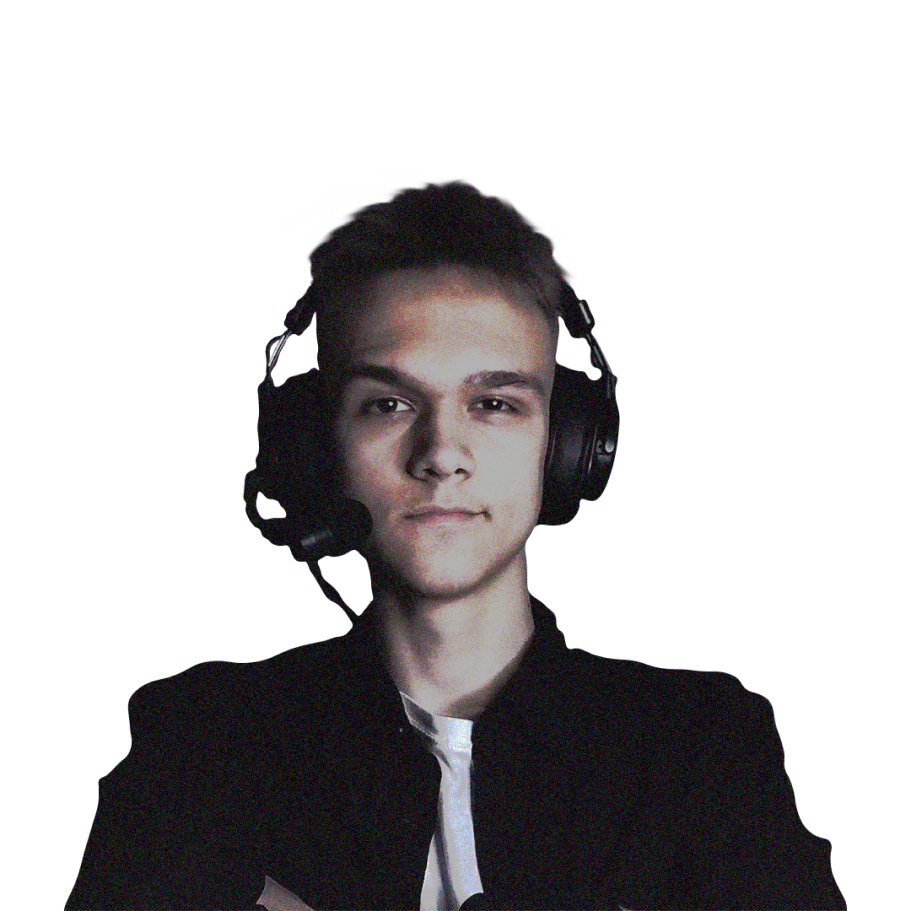
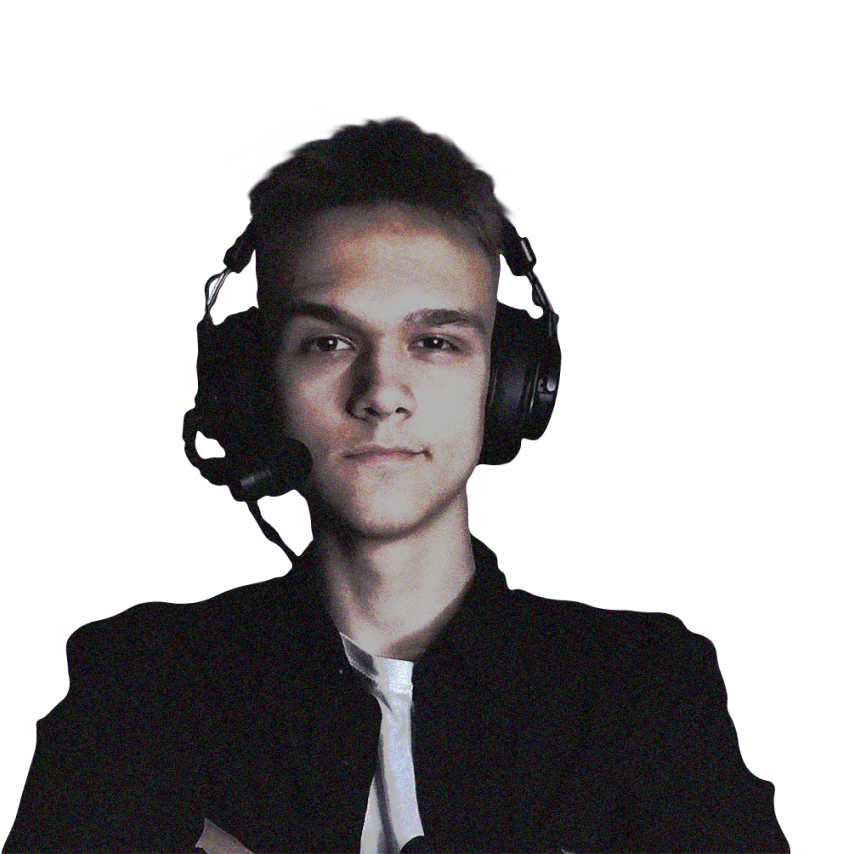
change position element for FullHD scale

Changed region(s): [[0.0, 0.1218, 0.9427, 1.0]]

diff --git a/index.html b/index.html
@@ -15,74 +15,82 @@
 <body>
 
     <header class="header container">
-        <a href="" class="home-btn">
-            <svg width="138" height="47" viewBox="0 0 138 47" fill="none" xmlns="http://www.w3.org/2000/svg">
-                <path d="M6.69092 28.6205L8.26357 32.5521L17.385 39H25.2483L33.2688 28.6205L35.3132 16.6683V7.38963"
-                    stroke="black" stroke-width="0.68141" />
-                <path d="M16.9131 30.3504L18.643 31.4513H26.8208" stroke="black" stroke-width="0.68141" />
-                <path d="M12.0381 15.882L13.1962 13.8089L21.0022 13.0512" stroke="black" stroke-width="0.68141" />
-                <path d="M29.0229 13.6802L33.5837 15.5674" stroke="black" stroke-width="0.68141" />
-                <path d="M25.7202 19.1845L26.5065 26.576" stroke="black" stroke-width="0.68141" />
-                <path d="M14.5162 18.2266L19.4674 17.3117" stroke="black" stroke-width="0.68141" />
-                <path d="M29.4946 18.2409L32.1681 18.87" stroke="black" stroke-width="0.68141" />
-                <path d="M16.3087 18.0131L16.6915 19.3011L18.2713 19.2539L18.2351 17.5173" stroke="black"
-                    stroke-width="0.68141" />
-                <path
-                    d="M47.405 28.8457C46.7547 28.8457 46.2048 28.6821 45.7553 28.3548C45.3058 28.0231 44.9653 27.5758 44.734 27.0128C44.5027 26.4454 44.3871 25.8104 44.3871 25.1078C44.3871 24.392 44.5027 23.7549 44.734 23.1962C44.9697 22.6332 45.3145 22.1903 45.7684 21.8673C46.2222 21.5444 46.7809 21.3829 47.4442 21.3829C48.0901 21.3829 48.6444 21.5465 49.107 21.8739C49.5696 22.2012 49.9231 22.6463 50.1675 23.2093C50.4163 23.7723 50.5407 24.4051 50.5407 25.1078C50.5407 25.8148 50.4163 26.4498 50.1675 27.0128C49.9188 27.5758 49.5609 28.0231 49.0939 28.3548C48.6269 28.6821 48.064 28.8457 47.405 28.8457ZM44.2234 28.6494V19.2226H45.1923V23.3272H45.0875V28.6494H44.2234ZM47.3068 27.9489C47.7999 27.9489 48.2102 27.8245 48.5375 27.5758C48.8648 27.327 49.1092 26.9888 49.2707 26.5611C49.4365 26.129 49.5194 25.6446 49.5194 25.1078C49.5194 24.5753 49.4387 24.0953 49.2772 23.6676C49.1157 23.2399 48.8692 22.9016 48.5375 22.6529C48.2102 22.4041 47.7934 22.2797 47.2871 22.2797C46.794 22.2797 46.3837 22.3998 46.0564 22.6398C45.7335 22.8798 45.4912 23.2137 45.3298 23.6414C45.1683 24.0647 45.0875 24.5535 45.0875 25.1078C45.0875 25.6533 45.1683 26.1421 45.3298 26.5742C45.4912 27.0019 45.7356 27.3379 46.063 27.5823C46.3903 27.8267 46.8049 27.9489 47.3068 27.9489ZM54.9306 28.8457C54.228 28.8457 53.6279 28.6865 53.1304 28.3679C52.6328 28.0493 52.251 27.6085 51.9848 27.0455C51.7185 26.4825 51.5854 25.8366 51.5854 25.1078C51.5854 24.3659 51.7207 23.7156 51.9913 23.157C52.2619 22.5983 52.6459 22.1641 53.1435 21.8542C53.6453 21.54 54.2411 21.3829 54.9306 21.3829C55.6376 21.3829 56.2399 21.5422 56.7374 21.8608C57.2393 22.175 57.6212 22.6136 57.883 23.1766C58.1492 23.7352 58.2824 24.3789 58.2824 25.1078C58.2824 25.8497 58.1492 26.5021 57.883 27.0651C57.6168 27.6238 57.2328 28.0602 56.7309 28.3744C56.229 28.6886 55.6289 28.8457 54.9306 28.8457ZM54.9306 27.9227C55.7162 27.9227 56.301 27.663 56.685 27.1437C57.0691 26.62 57.2611 25.9413 57.2611 25.1078C57.2611 24.2524 57.0669 23.5716 56.6785 23.0653C56.2944 22.5591 55.7118 22.3059 54.9306 22.3059C54.4025 22.3059 53.9661 22.4259 53.6213 22.666C53.2809 22.9016 53.0256 23.2311 52.8554 23.6545C52.6896 24.0734 52.6067 24.5579 52.6067 25.1078C52.6067 25.9588 52.803 26.6418 53.1958 27.1568C53.5886 27.6674 54.1669 27.9227 54.9306 27.9227ZM59.7264 28.6494V21.5793H60.5906V23.2813L60.4204 23.0588C60.4989 22.8493 60.6015 22.6572 60.728 22.4827C60.8546 22.3037 60.9921 22.1575 61.1405 22.0441C61.3238 21.8826 61.5376 21.7604 61.782 21.6775C62.0264 21.5902 62.273 21.54 62.5217 21.5269C62.7705 21.5095 62.9974 21.5269 63.2026 21.5793V22.4827C62.9451 22.4172 62.6636 22.4019 62.3581 22.4369C62.0526 22.4718 61.7711 22.594 61.5136 22.8035C61.2779 22.9867 61.1012 23.2071 60.9833 23.4646C60.8655 23.7178 60.787 23.9883 60.7477 24.2764C60.7084 24.5601 60.6888 24.8416 60.6888 25.1209V28.6494H59.7264ZM67.0595 28.8457C66.4005 28.8457 65.8375 28.6821 65.3705 28.3548C64.9036 28.0231 64.5457 27.5758 64.2969 27.0128C64.0482 26.4498 63.9238 25.8148 63.9238 25.1078C63.9238 24.4051 64.046 23.7723 64.2904 23.2093C64.5392 22.6463 64.8948 22.2012 65.3574 21.8739C65.8201 21.5465 66.3743 21.3829 67.0202 21.3829C67.6836 21.3829 68.2422 21.5444 68.6961 21.8673C69.15 22.1903 69.4926 22.6332 69.7239 23.1962C69.9595 23.7549 70.0774 24.392 70.0774 25.1078C70.0774 25.8104 69.9617 26.4454 69.7304 27.0128C69.4991 27.5758 69.1587 28.0231 68.7092 28.3548C68.2597 28.6821 67.7098 28.8457 67.0595 28.8457ZM67.1577 27.9489C67.6596 27.9489 68.0742 27.8267 68.4015 27.5823C68.7288 27.3379 68.9732 27.0019 69.1347 26.5742C69.2962 26.1421 69.3769 25.6533 69.3769 25.1078C69.3769 24.5535 69.2962 24.0647 69.1347 23.6414C68.9732 23.2137 68.7288 22.8798 68.4015 22.6398C68.0786 22.3998 67.6705 22.2797 67.1773 22.2797C66.6711 22.2797 66.2521 22.4041 65.9204 22.6529C65.5888 22.9016 65.3422 23.2399 65.1807 23.6676C65.0236 24.0953 64.945 24.5753 64.945 25.1078C64.945 25.6446 65.0258 26.129 65.1872 26.5611C65.3531 26.9888 65.5997 27.327 65.927 27.5758C66.2543 27.8245 66.6645 27.9489 67.1577 27.9489ZM69.3769 28.6494V23.3272H69.2722V19.2226H70.241V28.6494H69.3769ZM74.1004 28.8457C73.568 28.8457 73.1207 28.7497 72.7584 28.5577C72.4006 28.3657 72.1322 28.1104 71.9532 27.7918C71.7743 27.4732 71.6848 27.1262 71.6848 26.7509C71.6848 26.3669 71.7612 26.0395 71.9139 25.769C72.0711 25.494 72.2827 25.2692 72.5489 25.0947C72.8195 24.9201 73.1316 24.787 73.4851 24.6954C73.8429 24.6081 74.2379 24.5317 74.67 24.4662C75.1064 24.3964 75.5319 24.3375 75.9465 24.2895C76.3655 24.2371 76.7321 24.1869 77.0463 24.1389L76.7059 24.3484C76.719 23.6501 76.5837 23.133 76.3 22.7969C76.0163 22.4609 75.5232 22.2928 74.8205 22.2928C74.3361 22.2928 73.9259 22.4019 73.5898 22.6202C73.2581 22.8384 73.0246 23.1831 72.8893 23.6545L71.9532 23.3795C72.1147 22.7467 72.4398 22.2557 72.9286 21.9066C73.4174 21.5575 74.0524 21.3829 74.8336 21.3829C75.4795 21.3829 76.0272 21.5051 76.4768 21.7495C76.9306 21.9895 77.2514 22.3387 77.4391 22.7969C77.5264 23.002 77.5831 23.2311 77.6093 23.4843C77.6355 23.7374 77.6486 23.9949 77.6486 24.2567V28.6494H76.791V26.8753L77.0397 26.98C76.7997 27.5867 76.4266 28.0493 75.9203 28.3679C75.4141 28.6865 74.8074 28.8457 74.1004 28.8457ZM74.2117 28.0144C74.6612 28.0144 75.054 27.9336 75.3901 27.7721C75.7261 27.6107 75.9967 27.3903 76.2018 27.111C76.4069 26.8273 76.54 26.5087 76.6011 26.1552C76.6535 25.9283 76.6819 25.6795 76.6862 25.4089C76.6906 25.134 76.6928 24.9288 76.6928 24.7935L77.0594 24.9834C76.7321 25.027 76.3764 25.0707 75.9923 25.1143C75.6126 25.158 75.2373 25.2081 74.8664 25.2649C74.4998 25.3216 74.1681 25.3893 73.8713 25.4678C73.6705 25.5246 73.4763 25.6053 73.2887 25.71C73.101 25.8104 72.9461 25.9457 72.8239 26.1159C72.7061 26.2861 72.6471 26.4978 72.6471 26.7509C72.6471 26.956 72.6973 27.1546 72.7977 27.3466C72.9024 27.5387 73.0683 27.698 73.2952 27.8245C73.5265 27.9511 73.832 28.0144 74.2117 28.0144ZM84.4589 28.6494V25.0423C84.4589 24.6495 84.4218 24.2895 84.3476 23.9622C84.2734 23.6305 84.1534 23.3424 83.9876 23.098C83.8261 22.8493 83.6144 22.6572 83.3526 22.522C83.0951 22.3867 82.7809 22.319 82.4099 22.319C82.0695 22.319 81.7684 22.3779 81.5065 22.4958C81.249 22.6136 81.0308 22.7838 80.8519 23.0064C80.6773 23.2246 80.5442 23.4908 80.4526 23.805C80.3609 24.1193 80.3151 24.4771 80.3151 24.8786L79.6343 24.7281C79.6343 24.0036 79.7608 23.3948 80.0139 22.9016C80.2671 22.4085 80.6162 22.0353 81.0614 21.7822C81.5065 21.5291 82.0171 21.4025 82.5932 21.4025C83.0165 21.4025 83.3853 21.468 83.6996 21.5989C84.0181 21.7298 84.2865 21.9066 84.5048 22.1292C84.7273 22.3518 84.9063 22.6071 85.0416 22.8951C85.1768 23.1788 85.275 23.4821 85.3361 23.805C85.3972 24.1236 85.4278 24.4422 85.4278 24.7608V28.6494H84.4589ZM79.3462 28.6494V21.5793H80.2169V23.3206H80.3151V28.6494H79.3462ZM87.3099 28.6494V27.5299H88.4293V28.6494H87.3099ZM93.1938 28.8457C92.5348 28.8457 91.9718 28.6821 91.5049 28.3548C91.0379 28.0231 90.68 27.5758 90.4313 27.0128C90.1825 26.4498 90.0581 25.8148 90.0581 25.1078C90.0581 24.4051 90.1803 23.7723 90.4247 23.2093C90.6735 22.6463 91.0292 22.2012 91.4918 21.8739C91.9544 21.5465 92.5086 21.3829 93.1545 21.3829C93.8179 21.3829 94.3765 21.5444 94.8304 21.8673C95.2843 22.1903 95.6269 22.6332 95.8582 23.1962C96.0939 23.7549 96.2117 24.392 96.2117 25.1078C96.2117 25.8104 96.0961 26.4454 95.8647 27.0128C95.6334 27.5758 95.293 28.0231 94.8435 28.3548C94.394 28.6821 93.8441 28.8457 93.1938 28.8457ZM93.292 27.9489C93.7939 27.9489 94.2085 27.8267 94.5358 27.5823C94.8632 27.3379 95.1075 27.0019 95.269 26.5742C95.4305 26.1421 95.5112 25.6533 95.5112 25.1078C95.5112 24.5535 95.4305 24.0647 95.269 23.6414C95.1075 23.2137 94.8632 22.8798 94.5358 22.6398C94.2129 22.3998 93.8048 22.2797 93.3117 22.2797C92.8054 22.2797 92.3864 22.4041 92.0548 22.6529C91.7231 22.9016 91.4765 23.2399 91.315 23.6676C91.1579 24.0953 91.0794 24.5753 91.0794 25.1078C91.0794 25.6446 91.1601 26.129 91.3216 26.5611C91.4874 26.9888 91.734 27.327 92.0613 27.5758C92.3886 27.8245 92.7989 27.9489 93.292 27.9489ZM95.5112 28.6494V23.3272H95.4065V19.2226H96.3754V28.6494H95.5112ZM101.204 28.8457C100.514 28.8457 99.9162 28.693 99.4099 28.3875C98.908 28.082 98.5174 27.6521 98.2381 27.0979C97.9588 26.5436 97.8191 25.8933 97.8191 25.1471C97.8191 24.3746 97.9566 23.7068 98.2316 23.1439C98.5065 22.5809 98.8927 22.1466 99.3903 21.8411C99.8922 21.5356 100.484 21.3829 101.164 21.3829C101.863 21.3829 102.458 21.5444 102.951 21.8673C103.445 22.1859 103.818 22.6442 104.071 23.2421C104.324 23.84 104.44 24.5535 104.418 25.3827H103.436V25.0423C103.418 24.1258 103.22 23.4341 102.84 22.9671C102.465 22.5001 101.915 22.2666 101.191 22.2666C100.431 22.2666 99.8485 22.5132 99.4426 23.0064C99.0411 23.4995 98.8404 24.2022 98.8404 25.1143C98.8404 26.0046 99.0411 26.6964 99.4426 27.1895C99.8485 27.6783 100.422 27.9227 101.164 27.9227C101.671 27.9227 102.111 27.8071 102.487 27.5758C102.866 27.3401 103.165 27.0019 103.384 26.5611L104.28 26.908C104.001 27.5234 103.589 28.0013 103.043 28.3417C102.502 28.6777 101.889 28.8457 101.204 28.8457ZM98.5 25.3827V24.5775H103.901V25.3827H98.5ZM108.509 28.8392C107.68 28.8392 106.997 28.6603 106.46 28.3024C105.927 27.9445 105.6 27.447 105.478 26.8098L106.46 26.6462C106.565 27.0477 106.802 27.3685 107.173 27.6085C107.549 27.8442 108.011 27.962 108.561 27.962C109.098 27.962 109.521 27.8507 109.831 27.6281C110.141 27.4012 110.296 27.0935 110.296 26.7051C110.296 26.4869 110.246 26.3101 110.145 26.1748C110.049 26.0352 109.851 25.9064 109.55 25.7886C109.249 25.6708 108.799 25.5311 108.201 25.3696C107.56 25.1951 107.058 25.0205 106.696 24.8459C106.333 24.6713 106.076 24.4706 105.923 24.2437C105.77 24.0123 105.694 23.7309 105.694 23.3992C105.694 22.9977 105.807 22.6463 106.034 22.3452C106.261 22.0397 106.575 21.804 106.977 21.6382C107.379 21.468 107.845 21.3829 108.378 21.3829C108.91 21.3829 109.386 21.4702 109.805 21.6447C110.228 21.8149 110.569 22.055 110.826 22.3648C111.084 22.6747 111.237 23.0348 111.285 23.445L110.303 23.6217C110.237 23.2071 110.03 22.8798 109.681 22.6398C109.336 22.3954 108.897 22.2688 108.365 22.2601C107.863 22.247 107.455 22.343 107.141 22.5481C106.826 22.7489 106.669 23.0173 106.669 23.3533C106.669 23.541 106.726 23.7025 106.84 23.8378C106.953 23.9687 107.158 24.0931 107.455 24.2109C107.756 24.3288 108.184 24.4575 108.738 24.5972C109.388 24.763 109.899 24.9376 110.27 25.1209C110.641 25.3042 110.905 25.5202 111.062 25.769C111.219 26.0177 111.298 26.3254 111.298 26.692C111.298 27.3597 111.049 27.8856 110.551 28.2697C110.058 28.6494 109.377 28.8392 108.509 28.8392ZM112.88 20.2373V19.1571H113.843V20.2373H112.88ZM112.88 28.6494V21.5793H113.843V28.6494H112.88ZM118.614 31.988C118.251 31.988 117.894 31.9335 117.54 31.8243C117.191 31.7196 116.868 31.5516 116.571 31.3203C116.274 31.0933 116.026 30.7966 115.825 30.43L116.696 29.9455C116.892 30.3383 117.167 30.6198 117.52 30.79C117.878 30.9646 118.243 31.0519 118.614 31.0519C119.124 31.0519 119.537 30.9559 119.851 30.7638C120.17 30.5762 120.401 30.2969 120.545 29.9259C120.689 29.5549 120.759 29.0923 120.754 28.5381V26.6527H120.866V21.5793H121.723V28.5512C121.723 28.7519 121.717 28.9439 121.704 29.1272C121.695 29.3149 121.675 29.4982 121.645 29.6771C121.562 30.2052 121.389 30.6395 121.127 30.9799C120.87 31.3203 120.53 31.5734 120.106 31.7392C119.687 31.9051 119.19 31.988 118.614 31.988ZM118.548 28.8457C117.889 28.8457 117.326 28.6821 116.859 28.3548C116.392 28.0231 116.034 27.5758 115.786 27.0128C115.537 26.4498 115.413 25.8148 115.413 25.1078C115.413 24.4051 115.535 23.7723 115.779 23.2093C116.028 22.6463 116.384 22.2012 116.846 21.8739C117.309 21.5465 117.863 21.3829 118.509 21.3829C119.172 21.3829 119.731 21.5444 120.185 21.8673C120.639 22.1903 120.981 22.6332 121.213 23.1962C121.448 23.7549 121.566 24.392 121.566 25.1078C121.566 25.8104 121.45 26.4454 121.219 27.0128C120.988 27.5758 120.647 28.0231 120.198 28.3548C119.748 28.6821 119.198 28.8457 118.548 28.8457ZM118.646 27.9489C119.148 27.9489 119.563 27.8267 119.89 27.5823C120.218 27.3379 120.462 27.0019 120.623 26.5742C120.785 26.1421 120.866 25.6533 120.866 25.1078C120.866 24.5535 120.785 24.0647 120.623 23.6414C120.462 23.2137 120.218 22.8798 119.89 22.6398C119.567 22.3998 119.159 22.2797 118.666 22.2797C118.16 22.2797 117.741 22.4041 117.409 22.6529C117.077 22.9016 116.831 23.2399 116.669 23.6676C116.512 24.0953 116.434 24.5753 116.434 25.1078C116.434 25.6446 116.514 26.129 116.676 26.5611C116.842 26.9888 117.088 27.327 117.416 27.5758C117.743 27.8245 118.153 27.9489 118.646 27.9489ZM128.66 28.6494V25.0423C128.66 24.6495 128.623 24.2895 128.548 23.9622C128.474 23.6305 128.354 23.3424 128.188 23.098C128.027 22.8493 127.815 22.6572 127.553 22.522C127.296 22.3867 126.982 22.319 126.611 22.319C126.27 22.319 125.969 22.3779 125.707 22.4958C125.45 22.6136 125.232 22.7838 125.053 23.0064C124.878 23.2246 124.745 23.4908 124.653 23.805C124.562 24.1193 124.516 24.4771 124.516 24.8786L123.835 24.7281C123.835 24.0036 123.962 23.3948 124.215 22.9016C124.468 22.4085 124.817 22.0353 125.262 21.7822C125.707 21.5291 126.218 21.4025 126.794 21.4025C127.217 21.4025 127.586 21.468 127.9 21.5989C128.219 21.7298 128.487 21.9066 128.706 22.1292C128.928 22.3518 129.107 22.6071 129.242 22.8951C129.378 23.1788 129.476 23.4821 129.537 23.805C129.598 24.1236 129.629 24.4422 129.629 24.7608V28.6494H128.66ZM123.547 28.6494V21.5793H124.418V23.3206H124.516V28.6494H123.547Z"
-                    fill="black" />
-            </svg>
-        </a>
-        <div class="header-links">
-            <a href="https://www.behance.net/nikita_bordan" class="p3 b">Behance</a>
-            <a href="https://www.linkedin.com/in/nikita-bordan" class="p3 b">LinkedIn</a>
-            <a href="https://www.instagram.com/bordan.design" class="p3 b">Instagram</a>
-            <a href="https://t.me/nikita_bordan" class="p3 b">Telegram</a>
-            <a href="https://www.youtube.com/@bordan.design" class="p3 b">YouTube</a>
+        <div class="header-menu">
+            <a href="" class="home-btn">
+                <svg width="138" height="47" viewBox="0 0 138 47" fill="none" xmlns="http://www.w3.org/2000/svg">
+                    <path d="M6.69092 28.6205L8.26357 32.5521L17.385 39H25.2483L33.2688 28.6205L35.3132 16.6683V7.38963"
+                        stroke="black" stroke-width="0.68141" />
+                    <path d="M16.9131 30.3504L18.643 31.4513H26.8208" stroke="black" stroke-width="0.68141" />
+                    <path d="M12.0381 15.882L13.1962 13.8089L21.0022 13.0512" stroke="black" stroke-width="0.68141" />
+                    <path d="M29.0229 13.6802L33.5837 15.5674" stroke="black" stroke-width="0.68141" />
+                    <path d="M25.7202 19.1845L26.5065 26.576" stroke="black" stroke-width="0.68141" />
+                    <path d="M14.5162 18.2266L19.4674 17.3117" stroke="black" stroke-width="0.68141" />
+                    <path d="M29.4946 18.2409L32.1681 18.87" stroke="black" stroke-width="0.68141" />
+                    <path d="M16.3087 18.0131L16.6915 19.3011L18.2713 19.2539L18.2351 17.5173" stroke="black"
+                        stroke-width="0.68141" />
+                    <path
+                        d="M47.405 28.8457C46.7547 28.8457 46.2048 28.6821 45.7553 28.3548C45.3058 28.0231 44.9653 27.5758 44.734 27.0128C44.5027 26.4454 44.3871 25.8104 44.3871 25.1078C44.3871 24.392 44.5027 23.7549 44.734 23.1962C44.9697 22.6332 45.3145 22.1903 45.7684 21.8673C46.2222 21.5444 46.7809 21.3829 47.4442 21.3829C48.0901 21.3829 48.6444 21.5465 49.107 21.8739C49.5696 22.2012 49.9231 22.6463 50.1675 23.2093C50.4163 23.7723 50.5407 24.4051 50.5407 25.1078C50.5407 25.8148 50.4163 26.4498 50.1675 27.0128C49.9188 27.5758 49.5609 28.0231 49.0939 28.3548C48.6269 28.6821 48.064 28.8457 47.405 28.8457ZM44.2234 28.6494V19.2226H45.1923V23.3272H45.0875V28.6494H44.2234ZM47.3068 27.9489C47.7999 27.9489 48.2102 27.8245 48.5375 27.5758C48.8648 27.327 49.1092 26.9888 49.2707 26.5611C49.4365 26.129 49.5194 25.6446 49.5194 25.1078C49.5194 24.5753 49.4387 24.0953 49.2772 23.6676C49.1157 23.2399 48.8692 22.9016 48.5375 22.6529C48.2102 22.4041 47.7934 22.2797 47.2871 22.2797C46.794 22.2797 46.3837 22.3998 46.0564 22.6398C45.7335 22.8798 45.4912 23.2137 45.3298 23.6414C45.1683 24.0647 45.0875 24.5535 45.0875 25.1078C45.0875 25.6533 45.1683 26.1421 45.3298 26.5742C45.4912 27.0019 45.7356 27.3379 46.063 27.5823C46.3903 27.8267 46.8049 27.9489 47.3068 27.9489ZM54.9306 28.8457C54.228 28.8457 53.6279 28.6865 53.1304 28.3679C52.6328 28.0493 52.251 27.6085 51.9848 27.0455C51.7185 26.4825 51.5854 25.8366 51.5854 25.1078C51.5854 24.3659 51.7207 23.7156 51.9913 23.157C52.2619 22.5983 52.6459 22.1641 53.1435 21.8542C53.6453 21.54 54.2411 21.3829 54.9306 21.3829C55.6376 21.3829 56.2399 21.5422 56.7374 21.8608C57.2393 22.175 57.6212 22.6136 57.883 23.1766C58.1492 23.7352 58.2824 24.3789 58.2824 25.1078C58.2824 25.8497 58.1492 26.5021 57.883 27.0651C57.6168 27.6238 57.2328 28.0602 56.7309 28.3744C56.229 28.6886 55.6289 28.8457 54.9306 28.8457ZM54.9306 27.9227C55.7162 27.9227 56.301 27.663 56.685 27.1437C57.0691 26.62 57.2611 25.9413 57.2611 25.1078C57.2611 24.2524 57.0669 23.5716 56.6785 23.0653C56.2944 22.5591 55.7118 22.3059 54.9306 22.3059C54.4025 22.3059 53.9661 22.4259 53.6213 22.666C53.2809 22.9016 53.0256 23.2311 52.8554 23.6545C52.6896 24.0734 52.6067 24.5579 52.6067 25.1078C52.6067 25.9588 52.803 26.6418 53.1958 27.1568C53.5886 27.6674 54.1669 27.9227 54.9306 27.9227ZM59.7264 28.6494V21.5793H60.5906V23.2813L60.4204 23.0588C60.4989 22.8493 60.6015 22.6572 60.728 22.4827C60.8546 22.3037 60.9921 22.1575 61.1405 22.0441C61.3238 21.8826 61.5376 21.7604 61.782 21.6775C62.0264 21.5902 62.273 21.54 62.5217 21.5269C62.7705 21.5095 62.9974 21.5269 63.2026 21.5793V22.4827C62.9451 22.4172 62.6636 22.4019 62.3581 22.4369C62.0526 22.4718 61.7711 22.594 61.5136 22.8035C61.2779 22.9867 61.1012 23.2071 60.9833 23.4646C60.8655 23.7178 60.787 23.9883 60.7477 24.2764C60.7084 24.5601 60.6888 24.8416 60.6888 25.1209V28.6494H59.7264ZM67.0595 28.8457C66.4005 28.8457 65.8375 28.6821 65.3705 28.3548C64.9036 28.0231 64.5457 27.5758 64.2969 27.0128C64.0482 26.4498 63.9238 25.8148 63.9238 25.1078C63.9238 24.4051 64.046 23.7723 64.2904 23.2093C64.5392 22.6463 64.8948 22.2012 65.3574 21.8739C65.8201 21.5465 66.3743 21.3829 67.0202 21.3829C67.6836 21.3829 68.2422 21.5444 68.6961 21.8673C69.15 22.1903 69.4926 22.6332 69.7239 23.1962C69.9595 23.7549 70.0774 24.392 70.0774 25.1078C70.0774 25.8104 69.9617 26.4454 69.7304 27.0128C69.4991 27.5758 69.1587 28.0231 68.7092 28.3548C68.2597 28.6821 67.7098 28.8457 67.0595 28.8457ZM67.1577 27.9489C67.6596 27.9489 68.0742 27.8267 68.4015 27.5823C68.7288 27.3379 68.9732 27.0019 69.1347 26.5742C69.2962 26.1421 69.3769 25.6533 69.3769 25.1078C69.3769 24.5535 69.2962 24.0647 69.1347 23.6414C68.9732 23.2137 68.7288 22.8798 68.4015 22.6398C68.0786 22.3998 67.6705 22.2797 67.1773 22.2797C66.6711 22.2797 66.2521 22.4041 65.9204 22.6529C65.5888 22.9016 65.3422 23.2399 65.1807 23.6676C65.0236 24.0953 64.945 24.5753 64.945 25.1078C64.945 25.6446 65.0258 26.129 65.1872 26.5611C65.3531 26.9888 65.5997 27.327 65.927 27.5758C66.2543 27.8245 66.6645 27.9489 67.1577 27.9489ZM69.3769 28.6494V23.3272H69.2722V19.2226H70.241V28.6494H69.3769ZM74.1004 28.8457C73.568 28.8457 73.1207 28.7497 72.7584 28.5577C72.4006 28.3657 72.1322 28.1104 71.9532 27.7918C71.7743 27.4732 71.6848 27.1262 71.6848 26.7509C71.6848 26.3669 71.7612 26.0395 71.9139 25.769C72.0711 25.494 72.2827 25.2692 72.5489 25.0947C72.8195 24.9201 73.1316 24.787 73.4851 24.6954C73.8429 24.6081 74.2379 24.5317 74.67 24.4662C75.1064 24.3964 75.5319 24.3375 75.9465 24.2895C76.3655 24.2371 76.7321 24.1869 77.0463 24.1389L76.7059 24.3484C76.719 23.6501 76.5837 23.133 76.3 22.7969C76.0163 22.4609 75.5232 22.2928 74.8205 22.2928C74.3361 22.2928 73.9259 22.4019 73.5898 22.6202C73.2581 22.8384 73.0246 23.1831 72.8893 23.6545L71.9532 23.3795C72.1147 22.7467 72.4398 22.2557 72.9286 21.9066C73.4174 21.5575 74.0524 21.3829 74.8336 21.3829C75.4795 21.3829 76.0272 21.5051 76.4768 21.7495C76.9306 21.9895 77.2514 22.3387 77.4391 22.7969C77.5264 23.002 77.5831 23.2311 77.6093 23.4843C77.6355 23.7374 77.6486 23.9949 77.6486 24.2567V28.6494H76.791V26.8753L77.0397 26.98C76.7997 27.5867 76.4266 28.0493 75.9203 28.3679C75.4141 28.6865 74.8074 28.8457 74.1004 28.8457ZM74.2117 28.0144C74.6612 28.0144 75.054 27.9336 75.3901 27.7721C75.7261 27.6107 75.9967 27.3903 76.2018 27.111C76.4069 26.8273 76.54 26.5087 76.6011 26.1552C76.6535 25.9283 76.6819 25.6795 76.6862 25.4089C76.6906 25.134 76.6928 24.9288 76.6928 24.7935L77.0594 24.9834C76.7321 25.027 76.3764 25.0707 75.9923 25.1143C75.6126 25.158 75.2373 25.2081 74.8664 25.2649C74.4998 25.3216 74.1681 25.3893 73.8713 25.4678C73.6705 25.5246 73.4763 25.6053 73.2887 25.71C73.101 25.8104 72.9461 25.9457 72.8239 26.1159C72.7061 26.2861 72.6471 26.4978 72.6471 26.7509C72.6471 26.956 72.6973 27.1546 72.7977 27.3466C72.9024 27.5387 73.0683 27.698 73.2952 27.8245C73.5265 27.9511 73.832 28.0144 74.2117 28.0144ZM84.4589 28.6494V25.0423C84.4589 24.6495 84.4218 24.2895 84.3476 23.9622C84.2734 23.6305 84.1534 23.3424 83.9876 23.098C83.8261 22.8493 83.6144 22.6572 83.3526 22.522C83.0951 22.3867 82.7809 22.319 82.4099 22.319C82.0695 22.319 81.7684 22.3779 81.5065 22.4958C81.249 22.6136 81.0308 22.7838 80.8519 23.0064C80.6773 23.2246 80.5442 23.4908 80.4526 23.805C80.3609 24.1193 80.3151 24.4771 80.3151 24.8786L79.6343 24.7281C79.6343 24.0036 79.7608 23.3948 80.0139 22.9016C80.2671 22.4085 80.6162 22.0353 81.0614 21.7822C81.5065 21.5291 82.0171 21.4025 82.5932 21.4025C83.0165 21.4025 83.3853 21.468 83.6996 21.5989C84.0181 21.7298 84.2865 21.9066 84.5048 22.1292C84.7273 22.3518 84.9063 22.6071 85.0416 22.8951C85.1768 23.1788 85.275 23.4821 85.3361 23.805C85.3972 24.1236 85.4278 24.4422 85.4278 24.7608V28.6494H84.4589ZM79.3462 28.6494V21.5793H80.2169V23.3206H80.3151V28.6494H79.3462ZM87.3099 28.6494V27.5299H88.4293V28.6494H87.3099ZM93.1938 28.8457C92.5348 28.8457 91.9718 28.6821 91.5049 28.3548C91.0379 28.0231 90.68 27.5758 90.4313 27.0128C90.1825 26.4498 90.0581 25.8148 90.0581 25.1078C90.0581 24.4051 90.1803 23.7723 90.4247 23.2093C90.6735 22.6463 91.0292 22.2012 91.4918 21.8739C91.9544 21.5465 92.5086 21.3829 93.1545 21.3829C93.8179 21.3829 94.3765 21.5444 94.8304 21.8673C95.2843 22.1903 95.6269 22.6332 95.8582 23.1962C96.0939 23.7549 96.2117 24.392 96.2117 25.1078C96.2117 25.8104 96.0961 26.4454 95.8647 27.0128C95.6334 27.5758 95.293 28.0231 94.8435 28.3548C94.394 28.6821 93.8441 28.8457 93.1938 28.8457ZM93.292 27.9489C93.7939 27.9489 94.2085 27.8267 94.5358 27.5823C94.8632 27.3379 95.1075 27.0019 95.269 26.5742C95.4305 26.1421 95.5112 25.6533 95.5112 25.1078C95.5112 24.5535 95.4305 24.0647 95.269 23.6414C95.1075 23.2137 94.8632 22.8798 94.5358 22.6398C94.2129 22.3998 93.8048 22.2797 93.3117 22.2797C92.8054 22.2797 92.3864 22.4041 92.0548 22.6529C91.7231 22.9016 91.4765 23.2399 91.315 23.6676C91.1579 24.0953 91.0794 24.5753 91.0794 25.1078C91.0794 25.6446 91.1601 26.129 91.3216 26.5611C91.4874 26.9888 91.734 27.327 92.0613 27.5758C92.3886 27.8245 92.7989 27.9489 93.292 27.9489ZM95.5112 28.6494V23.3272H95.4065V19.2226H96.3754V28.6494H95.5112ZM101.204 28.8457C100.514 28.8457 99.9162 28.693 99.4099 28.3875C98.908 28.082 98.5174 27.6521 98.2381 27.0979C97.9588 26.5436 97.8191 25.8933 97.8191 25.1471C97.8191 24.3746 97.9566 23.7068 98.2316 23.1439C98.5065 22.5809 98.8927 22.1466 99.3903 21.8411C99.8922 21.5356 100.484 21.3829 101.164 21.3829C101.863 21.3829 102.458 21.5444 102.951 21.8673C103.445 22.1859 103.818 22.6442 104.071 23.2421C104.324 23.84 104.44 24.5535 104.418 25.3827H103.436V25.0423C103.418 24.1258 103.22 23.4341 102.84 22.9671C102.465 22.5001 101.915 22.2666 101.191 22.2666C100.431 22.2666 99.8485 22.5132 99.4426 23.0064C99.0411 23.4995 98.8404 24.2022 98.8404 25.1143C98.8404 26.0046 99.0411 26.6964 99.4426 27.1895C99.8485 27.6783 100.422 27.9227 101.164 27.9227C101.671 27.9227 102.111 27.8071 102.487 27.5758C102.866 27.3401 103.165 27.0019 103.384 26.5611L104.28 26.908C104.001 27.5234 103.589 28.0013 103.043 28.3417C102.502 28.6777 101.889 28.8457 101.204 28.8457ZM98.5 25.3827V24.5775H103.901V25.3827H98.5ZM108.509 28.8392C107.68 28.8392 106.997 28.6603 106.46 28.3024C105.927 27.9445 105.6 27.447 105.478 26.8098L106.46 26.6462C106.565 27.0477 106.802 27.3685 107.173 27.6085C107.549 27.8442 108.011 27.962 108.561 27.962C109.098 27.962 109.521 27.8507 109.831 27.6281C110.141 27.4012 110.296 27.0935 110.296 26.7051C110.296 26.4869 110.246 26.3101 110.145 26.1748C110.049 26.0352 109.851 25.9064 109.55 25.7886C109.249 25.6708 108.799 25.5311 108.201 25.3696C107.56 25.1951 107.058 25.0205 106.696 24.8459C106.333 24.6713 106.076 24.4706 105.923 24.2437C105.77 24.0123 105.694 23.7309 105.694 23.3992C105.694 22.9977 105.807 22.6463 106.034 22.3452C106.261 22.0397 106.575 21.804 106.977 21.6382C107.379 21.468 107.845 21.3829 108.378 21.3829C108.91 21.3829 109.386 21.4702 109.805 21.6447C110.228 21.8149 110.569 22.055 110.826 22.3648C111.084 22.6747 111.237 23.0348 111.285 23.445L110.303 23.6217C110.237 23.2071 110.03 22.8798 109.681 22.6398C109.336 22.3954 108.897 22.2688 108.365 22.2601C107.863 22.247 107.455 22.343 107.141 22.5481C106.826 22.7489 106.669 23.0173 106.669 23.3533C106.669 23.541 106.726 23.7025 106.84 23.8378C106.953 23.9687 107.158 24.0931 107.455 24.2109C107.756 24.3288 108.184 24.4575 108.738 24.5972C109.388 24.763 109.899 24.9376 110.27 25.1209C110.641 25.3042 110.905 25.5202 111.062 25.769C111.219 26.0177 111.298 26.3254 111.298 26.692C111.298 27.3597 111.049 27.8856 110.551 28.2697C110.058 28.6494 109.377 28.8392 108.509 28.8392ZM112.88 20.2373V19.1571H113.843V20.2373H112.88ZM112.88 28.6494V21.5793H113.843V28.6494H112.88ZM118.614 31.988C118.251 31.988 117.894 31.9335 117.54 31.8243C117.191 31.7196 116.868 31.5516 116.571 31.3203C116.274 31.0933 116.026 30.7966 115.825 30.43L116.696 29.9455C116.892 30.3383 117.167 30.6198 117.52 30.79C117.878 30.9646 118.243 31.0519 118.614 31.0519C119.124 31.0519 119.537 30.9559 119.851 30.7638C120.17 30.5762 120.401 30.2969 120.545 29.9259C120.689 29.5549 120.759 29.0923 120.754 28.5381V26.6527H120.866V21.5793H121.723V28.5512C121.723 28.7519 121.717 28.9439 121.704 29.1272C121.695 29.3149 121.675 29.4982 121.645 29.6771C121.562 30.2052 121.389 30.6395 121.127 30.9799C120.87 31.3203 120.53 31.5734 120.106 31.7392C119.687 31.9051 119.19 31.988 118.614 31.988ZM118.548 28.8457C117.889 28.8457 117.326 28.6821 116.859 28.3548C116.392 28.0231 116.034 27.5758 115.786 27.0128C115.537 26.4498 115.413 25.8148 115.413 25.1078C115.413 24.4051 115.535 23.7723 115.779 23.2093C116.028 22.6463 116.384 22.2012 116.846 21.8739C117.309 21.5465 117.863 21.3829 118.509 21.3829C119.172 21.3829 119.731 21.5444 120.185 21.8673C120.639 22.1903 120.981 22.6332 121.213 23.1962C121.448 23.7549 121.566 24.392 121.566 25.1078C121.566 25.8104 121.45 26.4454 121.219 27.0128C120.988 27.5758 120.647 28.0231 120.198 28.3548C119.748 28.6821 119.198 28.8457 118.548 28.8457ZM118.646 27.9489C119.148 27.9489 119.563 27.8267 119.89 27.5823C120.218 27.3379 120.462 27.0019 120.623 26.5742C120.785 26.1421 120.866 25.6533 120.866 25.1078C120.866 24.5535 120.785 24.0647 120.623 23.6414C120.462 23.2137 120.218 22.8798 119.89 22.6398C119.567 22.3998 119.159 22.2797 118.666 22.2797C118.16 22.2797 117.741 22.4041 117.409 22.6529C117.077 22.9016 116.831 23.2399 116.669 23.6676C116.512 24.0953 116.434 24.5753 116.434 25.1078C116.434 25.6446 116.514 26.129 116.676 26.5611C116.842 26.9888 117.088 27.327 117.416 27.5758C117.743 27.8245 118.153 27.9489 118.646 27.9489ZM128.66 28.6494V25.0423C128.66 24.6495 128.623 24.2895 128.548 23.9622C128.474 23.6305 128.354 23.3424 128.188 23.098C128.027 22.8493 127.815 22.6572 127.553 22.522C127.296 22.3867 126.982 22.319 126.611 22.319C126.27 22.319 125.969 22.3779 125.707 22.4958C125.45 22.6136 125.232 22.7838 125.053 23.0064C124.878 23.2246 124.745 23.4908 124.653 23.805C124.562 24.1193 124.516 24.4771 124.516 24.8786L123.835 24.7281C123.835 24.0036 123.962 23.3948 124.215 22.9016C124.468 22.4085 124.817 22.0353 125.262 21.7822C125.707 21.5291 126.218 21.4025 126.794 21.4025C127.217 21.4025 127.586 21.468 127.9 21.5989C128.219 21.7298 128.487 21.9066 128.706 22.1292C128.928 22.3518 129.107 22.6071 129.242 22.8951C129.378 23.1788 129.476 23.4821 129.537 23.805C129.598 24.1236 129.629 24.4422 129.629 24.7608V28.6494H128.66ZM123.547 28.6494V21.5793H124.418V23.3206H124.516V28.6494H123.547Z"
+                        fill="black" />
+                </svg>
+            </a>
+            <div class="header-links">
+                <a href="https://www.behance.net/nikita_bordan" class="p3 b">Behance</a>
+                <a href="https://www.linkedin.com/in/nikita-bordan" class="p3 b">LinkedIn</a>
+                <a href="https://www.instagram.com/bordan.design" class="p3 b">Instagram</a>
+                <a href="https://t.me/nikita_bordan" class="p3 b">Telegram</a>
+                <a href="https://www.youtube.com/@bordan.design" class="p3 b">YouTube</a>
+            </div>
+        </div>
+
+        <div class="header-section">
+
+            <div class="header-l">
+                <img class="header-section__img" src="img/me3.png" alt="Designer">
+                <div class="person-info">
+                    <div class="flex-fill-h">
+                        <p class="p2 b">UI/UX designer</p>
+                        <p class="p4">UA</p>
+                    </div>
+                    <h6 class="h6 b">Микита Бордан</h6>
+                    <div class="flex-h">
+                        <p class="p3">Web</p>
+                        <p class="p3">GameDev</p>
+                    </div>
+                </div>
+            </div>
+
+            <div class="header-section__text">
+                <div class="header-section__upper">
+                    <p class="p1">@bordan.design</p>
+                    <div class="circle"></div>
+                    <p class="p1">2024</p>
+                </div>
+                <h1 class="h1 b ">Те, з чого починається проект у діджитл</h1>
+                <div class="header-section__tags">
+                    <div class="tag h7 b">
+                        <div class="circle"></div>Портфоліо
+                    </div>
+                    <div class="tag h7 b">
+                        <div class="circle"></div>Мій шлях
+                    </div>
+                    <div class="tag h7 b">
+                        <div class="circle"></div>Як я працюю
+                    </div>
+                </div>
+            </div>
+
+            <div class="btn btn-scroll">
+                <svg width="16" height="20" viewBox="0 0 16 20" fill="none" xmlns="http://www.w3.org/2000/svg">
+                    <path
+                        d="M7.26892 19.1072C7.65543 19.4937 8.28207 19.4937 8.66857 19.1072L14.967 12.8087C15.3535 12.4222 15.3535 11.7956 14.967 11.4091C14.5805 11.0226 13.9539 11.0226 13.5674 11.4091L7.96875 17.0077L2.37015 11.4091C1.98365 11.0226 1.357 11.0226 0.970498 11.4091C0.583995 11.7956 0.583995 12.4222 0.970498 12.8087L7.26892 19.1072ZM6.97905 0.592712L6.97905 18.4074L8.95845 18.4074L8.95845 0.592712L6.97905 0.592712Z"
+                        fill="#4A4A4A" />
+                </svg>
+            </div>
         </div>
     </header>
 
-    <section class="header-section container ">
-        <img class="header-section__img" src="img/me3.png" alt="Designer">
-        <div class="header-section__text">
-            <div class="header-section__upper">
-                <p class="p1">@bordan.design</p>
-                <div class="circle"></div>
-                <p class="p1">2024</p>
-            </div>
-            <h1 class="h1 b ">Те, з чого починається проект у діджитл</h1>
-            <div class="header-section__tags">
-                <div class="tag h7 b">
-                    <div class="circle"></div>Портфоліо
-                </div>
-                <div class="tag h7 b">
-                    <div class="circle"></div>Мій шлях
-                </div>
-                <div class="tag h7 b">
-                    <div class="circle"></div>Як я працюю
-                </div>
-            </div>
-        </div>
-        <div class="person-info">
-            <div class="flex-fill-h">
-                <p class="p2 b">UI/UX designer</p>
-                <p class="p4">UA</p>
-            </div>
-            <h6 class="h6 b">Микита Бордан</h6>
-            <div class="flex-h">
-                <p class="p3">Web</p>
-                <p class="p3">GameDev</p>
-            </div>
-        </div>
-        <div class="btn btn-scroll">
-            <svg width="16" height="20" viewBox="0 0 16 20" fill="none" xmlns="http://www.w3.org/2000/svg">
-                <path
-                    d="M7.26892 19.1072C7.65543 19.4937 8.28207 19.4937 8.66857 19.1072L14.967 12.8087C15.3535 12.4222 15.3535 11.7956 14.967 11.4091C14.5805 11.0226 13.9539 11.0226 13.5674 11.4091L7.96875 17.0077L2.37015 11.4091C1.98365 11.0226 1.357 11.0226 0.970498 11.4091C0.583995 11.7956 0.583995 12.4222 0.970498 12.8087L7.26892 19.1072ZM6.97905 0.592712L6.97905 18.4074L8.95845 18.4074L8.95845 0.592712L6.97905 0.592712Z"
-                    fill="#4A4A4A" />
-            </svg>
-        </div>
-    </section>
-
-    <footer class="footer"></footer>
+    <!-- <section class="header-section container ">
+    </section> -->
 
 </body>
 

diff --git a/style.css b/style.css
@@ -68,6 +68,7 @@ section {
 .container {
     max-width: 1600px;
     margin: 0 auto;
+    padding: 0 32px;
 }
 
 .r {
@@ -165,6 +166,7 @@ a:hover {
 .flex-h {
     display: flex;
     align-items: center;
+    gap: 8px;
 }
 
 /* Scroll */
@@ -184,7 +186,7 @@ a:hover {
 /* Customizes the thumb of the scrollbar */
 ::-webkit-scrollbar-thumb {
     background: var(--gray-800);
-    border-radius: 100px;
+    border-radius: 0px;
     /* Color of the thumb */
 }
 
@@ -197,11 +199,18 @@ a:hover {
 /* Header */
 
 
+.home-btn {
+    margin: 10px 0;
+}
+
 .header {
+    height: 100vh;
+}
+
+.header-menu {
     display: flex;
     justify-content: space-between;
     padding: 24px 0;
-    margin-top: 32px;
 }
 
 .header-links {
@@ -215,28 +224,45 @@ a:hover {
     transition: 0.3s ease-out;
 }
 
+
 .header-section {
     /* max-width: 636px; */
     display: flex;
+    justify-content: space-between;
     position: relative;
-    height: 918px;
+    height: calc(100vh - 117px);
 }
 
 .header-section__img {
     position: absolute;
-    left: -160px;
+    left: 0px;
     bottom: 0;
 }
 
 .header-section__text {
-    margin-top: 30vh;
-    margin-left: 816px;
+    margin-top: 25vh;
+    max-width: 636px;
+    margin-right: 144px;
+    /* margin-left: 816px; */
+}
+
+.header-section__text h1,
+.header-section__tags {
+    color: var(--gray-500);
 }
 
 .header-section__upper {
     display: flex;
     gap: 8px;
     align-items: center
+}
+
+.header-section__upper p.p1 {
+    color: var(--gray-800);
+}
+
+.header-section__upper.circle {
+    background-color: var(--gray800);
 }
 
 .header-section .header-section__upper {
